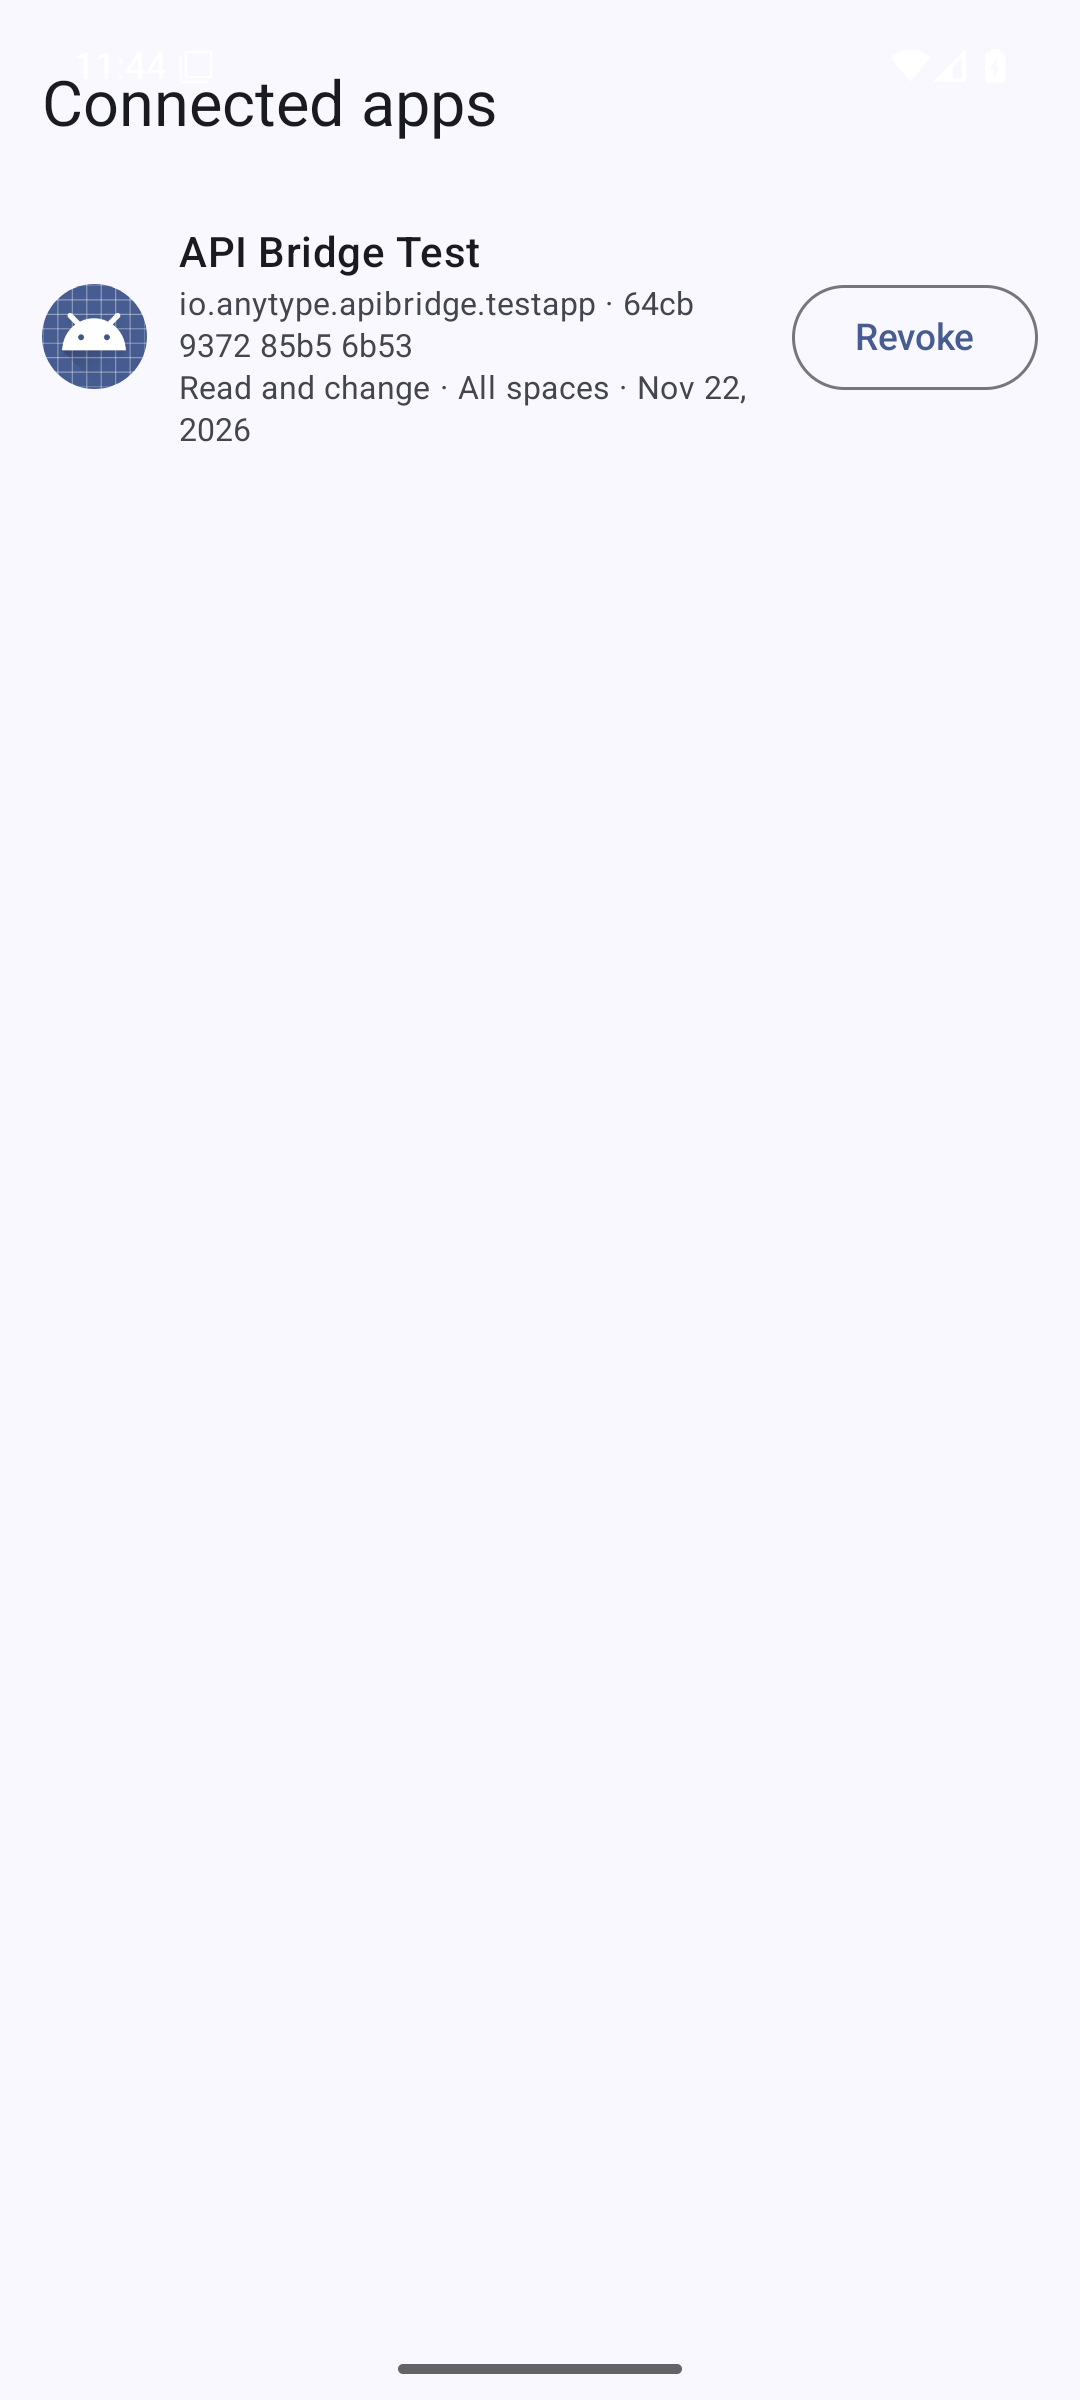
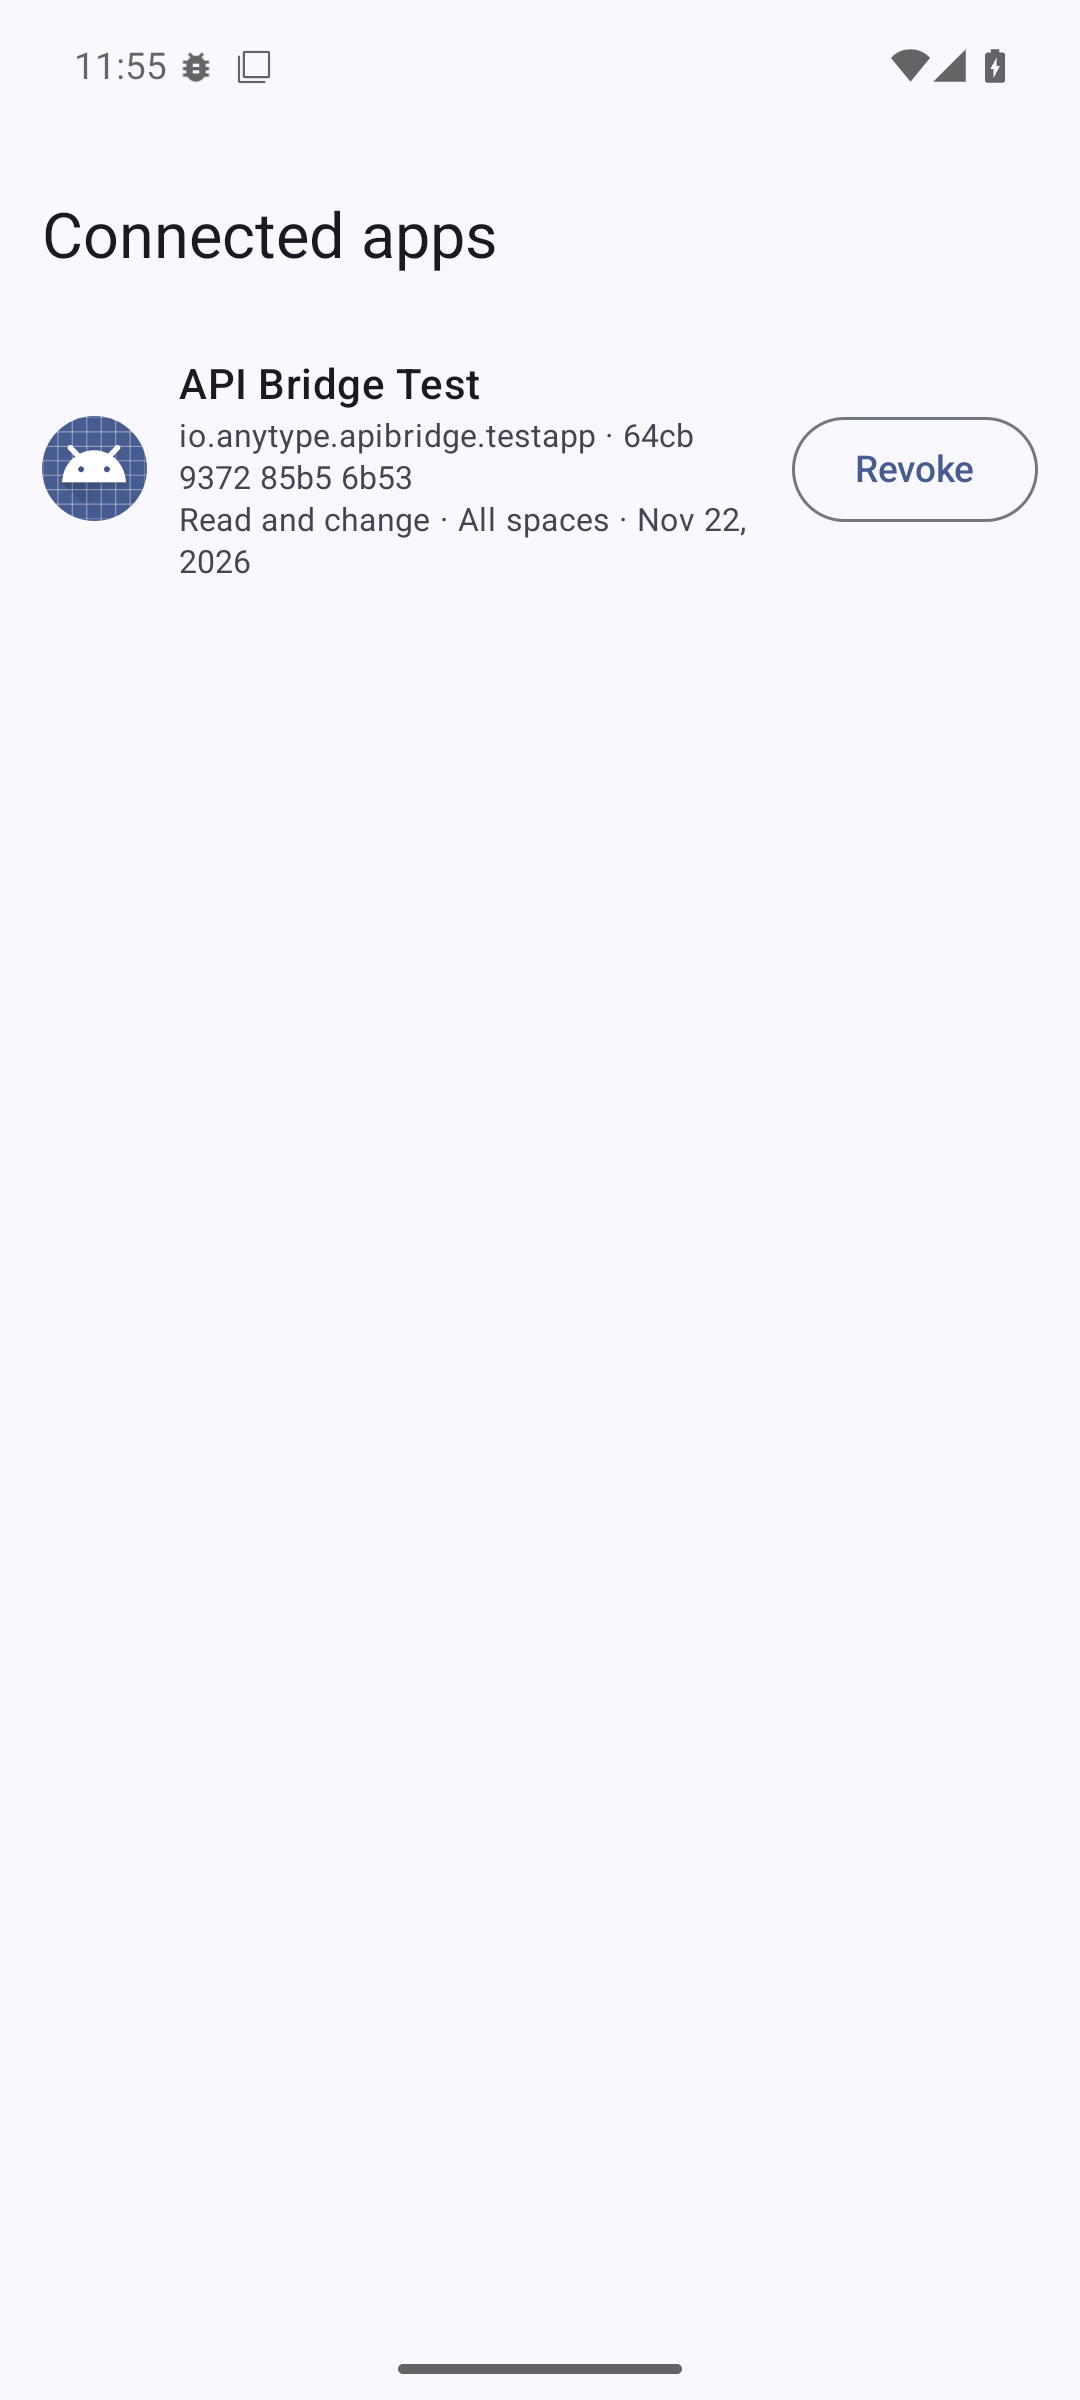
API bridge: fix Connected apps insets and the empty-selection consent text
- Connected apps drew its title under the status bar and its bar icons
  light on a light background: enableEdgeToEdge() and safeDrawing insets.
- With "All spaces" off and nothing ticked, the consent text said
  "... in 0 spaces of ...". It now asks the user to choose the spaces.

Screenshots updated (connected-apps.png) and added
(consent-choose-spaces.png); taken from a local build with the secure
flags off, which is not committed.

Claude-Session: https://claude.ai/code/session_01UCJ3BFxTb4YjqF76JH56hV

diff --git a/api-bridge/src/main/java/com/anytypeio/anytype/apibridge/access/ConnectedAppsActivity.kt b/api-bridge/src/main/java/com/anytypeio/anytype/apibridge/access/ConnectedAppsActivity.kt
@@ -4,6 +4,7 @@ import android.os.Bundle
 import android.util.Log
 import android.view.View
 import androidx.activity.ComponentActivity
+import androidx.activity.enableEdgeToEdge
 import androidx.annotation.RequiresApi
 import androidx.compose.foundation.Image
 import androidx.compose.foundation.isSystemInDarkTheme
@@ -11,13 +12,16 @@ import androidx.compose.foundation.layout.Box
 import androidx.compose.foundation.layout.Column
 import androidx.compose.foundation.layout.Row
 import androidx.compose.foundation.layout.Spacer
+import androidx.compose.foundation.layout.WindowInsets
 import androidx.compose.foundation.layout.fillMaxSize
 import androidx.compose.foundation.layout.fillMaxWidth
 import androidx.compose.foundation.layout.height
 import androidx.compose.foundation.layout.padding
+import androidx.compose.foundation.layout.safeDrawing
 import androidx.compose.foundation.layout.size
 import androidx.compose.foundation.layout.width
 import androidx.compose.foundation.layout.widthIn
+import androidx.compose.foundation.layout.windowInsetsPadding
 import androidx.compose.foundation.lazy.LazyColumn
 import androidx.compose.foundation.lazy.items
 import androidx.compose.material3.CircularProgressIndicator
@@ -89,6 +93,8 @@ class ConnectedAppsActivity : ComponentActivity() {
     private var accountId: String? = null
 
     override fun onCreate(savedInstanceState: Bundle?) {
+        // Edge to edge, with system bar icons that contrast with the light or dark background.
+        enableEdgeToEdge()
         super.onCreate(savedInstanceState)
         // No other app may draw over a screen whose buttons remove access, and no screenshots.
         window.setHideOverlayWindows(true)
@@ -190,7 +196,8 @@ class ConnectedAppsActivity : ComponentActivity() {
     @Composable
     private fun AccessContent(state: UiState, onRevoke: (Row) -> Unit) {
         Surface(Modifier.fillMaxSize(), color = MaterialTheme.colorScheme.surface) {
-            Column(Modifier.padding(horizontal = 16.dp)) {
+            // Android 15+ draws apps edge to edge: keep the content clear of the system bars.
+            Column(Modifier.windowInsetsPadding(WindowInsets.safeDrawing).padding(horizontal = 16.dp)) {
                 Spacer(Modifier.height(24.dp))
                 Text("Connected apps", style = MaterialTheme.typography.headlineSmall)
                 Spacer(Modifier.height(16.dp))

diff --git a/api-bridge/src/main/java/com/anytypeio/anytype/apibridge/consent/ConsentState.kt b/api-bridge/src/main/java/com/anytypeio/anytype/apibridge/consent/ConsentState.kt
@@ -39,13 +39,15 @@ data class ConsentState(
     fun title() = "Allow $appLabel to access Anytype?"
 
     fun body(): String {
+        val of = if (accountName.isBlank()) "" else " of $accountName"
+        // Nothing ticked yet (Allow is disabled): ask for a choice rather than describe "0 spaces".
+        if (!allSpaces && selected.isEmpty()) return "Choose the spaces$of that $appLabel can access."
         val verbs = if (access == Access.READ_WRITE) "read and change" else "read"
         val where = when {
             allSpaces -> "all your spaces"
             selected.size == 1 -> "1 space"
             else -> "${selected.size} spaces"
         }
-        val of = if (accountName.isBlank()) "" else " of $accountName"
         return "$appLabel will be able to $verbs all objects in $where$of while it is connected."
     }
 

diff --git a/api-bridge/src/test/java/com/anytypeio/anytype/apibridge/consent/ConsentStateTest.kt b/api-bridge/src/test/java/com/anytypeio/anytype/apibridge/consent/ConsentStateTest.kt
@@ -89,6 +89,15 @@ class ConsentStateTest {
             "Client will be able to read all objects in 1 space of Alice while it is connected.",
             narrow.toggleSpace("s2").body()
         )
+        // No space ticked yet: ask for a choice instead of describing access to "0 spaces".
+        assertEquals(
+            "Choose the spaces of Alice that Client can access.",
+            narrow.toggleSpace("s1").toggleSpace("s2").body()
+        )
+        assertEquals(
+            "Choose the spaces that Client can access.",
+            narrow.copy(accountName = "").toggleSpace("s1").toggleSpace("s2").body()
+        )
         assertEquals(
             "With specific spaces, the app can use the v2 API and MCP only, and cannot create spaces.",
             ConsentState.NARROWED_NOTE
